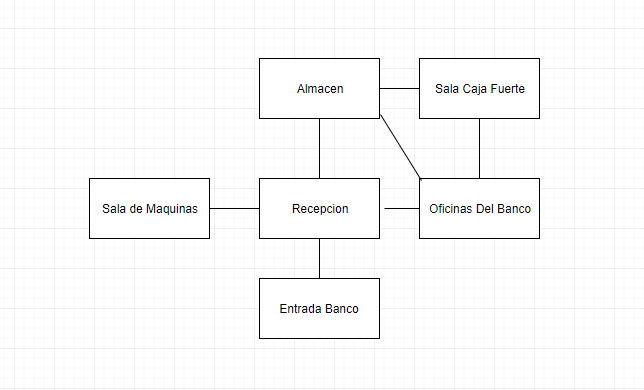
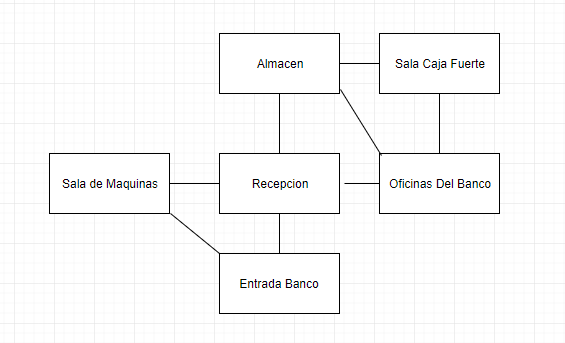
06 Ahora hay 2 nuevas salidas hacia el noroeste

diff --git a/Room.java b/Room.java
@@ -20,6 +20,7 @@ public class Room
     private Room eastExit;
     private Room westExit;
     private Room southEastExit;
+    private Room northWestExit;
 
     /**
      * Create a room described "description". Initially, it has
@@ -40,7 +41,7 @@ public class Room
      * @param south The south exit.
      * @param west The west exit.
      */
-    public void setExits(Room north, Room east, Room south, Room west, Room southeast) 
+    public void setExits(Room north, Room east, Room south, Room west, Room southeast, Room northwest) 
     {
         if(north != null)
             northExit = north;
@@ -52,6 +53,8 @@ public class Room
             westExit = west;
         if(southeast != null)
             southEastExit = southeast;
+        if(northwest != null)
+            northWestExit = northwest;
     }
 
     /**
@@ -85,6 +88,9 @@ public class Room
         if(direction.equals("southeast")) {
             theRoom = southEastExit;
         }
+        if(direction.equals("northwest")) {
+            theRoom = northWestExit;
+        }
         return theRoom;
     }
 
@@ -107,10 +113,13 @@ public class Room
             salidas += ("south ");
         }
         if(westExit != null) {
-            System.out.print("west ");
+            salidas += ("west ");
         }
         if(southEastExit != null) {
-            System.out.print("southeast ");
+            salidas += ("southeast ");
+        }
+         if(northWestExit != null) {
+            salidas += ("northwest ");
         }
         return salidas;
     }

diff --git a/Game.java b/Game.java
@@ -45,12 +45,12 @@ public class Game
         cajaFuerte = new Room("in the bank safety deposit box room!");
 
         // initialise room exits
-        entrada.setExits(recepcion, null, null, null, null);
-        recepcion.setExits(almacen, oficinas, entrada, salaMaquinas, null);
-        salaMaquinas.setExits(null, recepcion, null, null, null);
-        oficinas.setExits(cajaFuerte, null, null, recepcion, null);
-        almacen.setExits(null, cajaFuerte, recepcion, null, oficinas);
-        cajaFuerte.setExits(null, null, oficinas, almacen, null);
+        entrada.setExits(recepcion, null, null, null, null, salaMaquinas);
+        recepcion.setExits(almacen, oficinas, entrada, salaMaquinas, null, null);
+        salaMaquinas.setExits(null, recepcion, null, null, null, null);
+        oficinas.setExits(cajaFuerte, null, null, recepcion, null, almacen);
+        almacen.setExits(null, cajaFuerte, recepcion, null, oficinas, null);
+        cajaFuerte.setExits(null, null, oficinas, almacen, null, null);
 
         currentRoom = entrada;  //Empieza el juego en la entrada del banco.
     }
